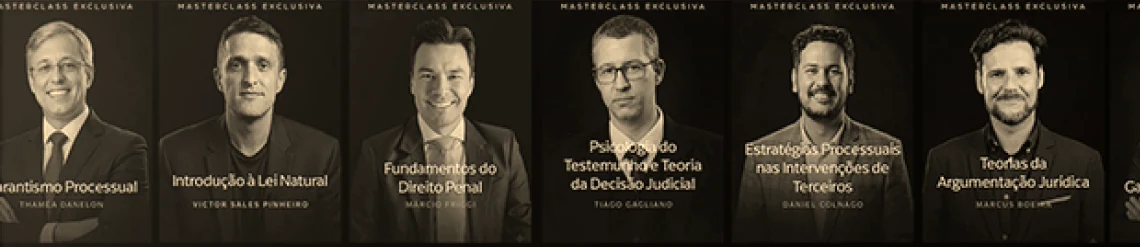
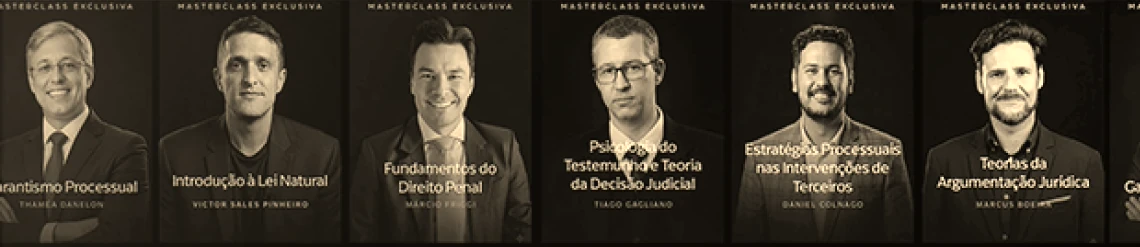
Fileiras do notebook: luz uniforme (sem emenda de brilho) e cache renovado

diff --git a/index.html b/index.html
@@ -117,9 +117,9 @@
   .fila{position:relative;display:block;width:100%;overflow:hidden}
   .fila.f1{height:34.55%}.fila.f2{height:37.62%}.fila.f3{height:27.83%}
   .pista{position:absolute;left:0;top:0;height:100%;width:285.6%;background-repeat:repeat-x;background-size:33.3333% 100%;will-change:transform;animation-timing-function:linear;animation-iteration-count:infinite}
-  .f1 .pista{background-image:url(img/fila-1.webp);animation:vai-dir 26s linear infinite 1.2s}
-  .f2 .pista{background-image:url(img/fila-2.webp);animation:vai-esq 22s linear infinite 1.2s}
-  .f3 .pista{background-image:url(img/fila-3.webp);animation:vai-dir 30s linear infinite 1.2s}
+  .f1 .pista{background-image:url(img/fila-1.webp?v=3);animation:vai-dir 26s linear infinite 1.2s}
+  .f2 .pista{background-image:url(img/fila-2.webp?v=3);animation:vai-esq 22s linear infinite 1.2s}
+  .f3 .pista{background-image:url(img/fila-3.webp?v=3);animation:vai-dir 30s linear infinite 1.2s}
   @keyframes vai-dir{from{transform:translateX(-33.3333%)}to{transform:translateX(0)}}
   @keyframes vai-esq{from{transform:translateX(0)}to{transform:translateX(-33.3333%)}}
   .js .pista{animation-play-state:paused}
